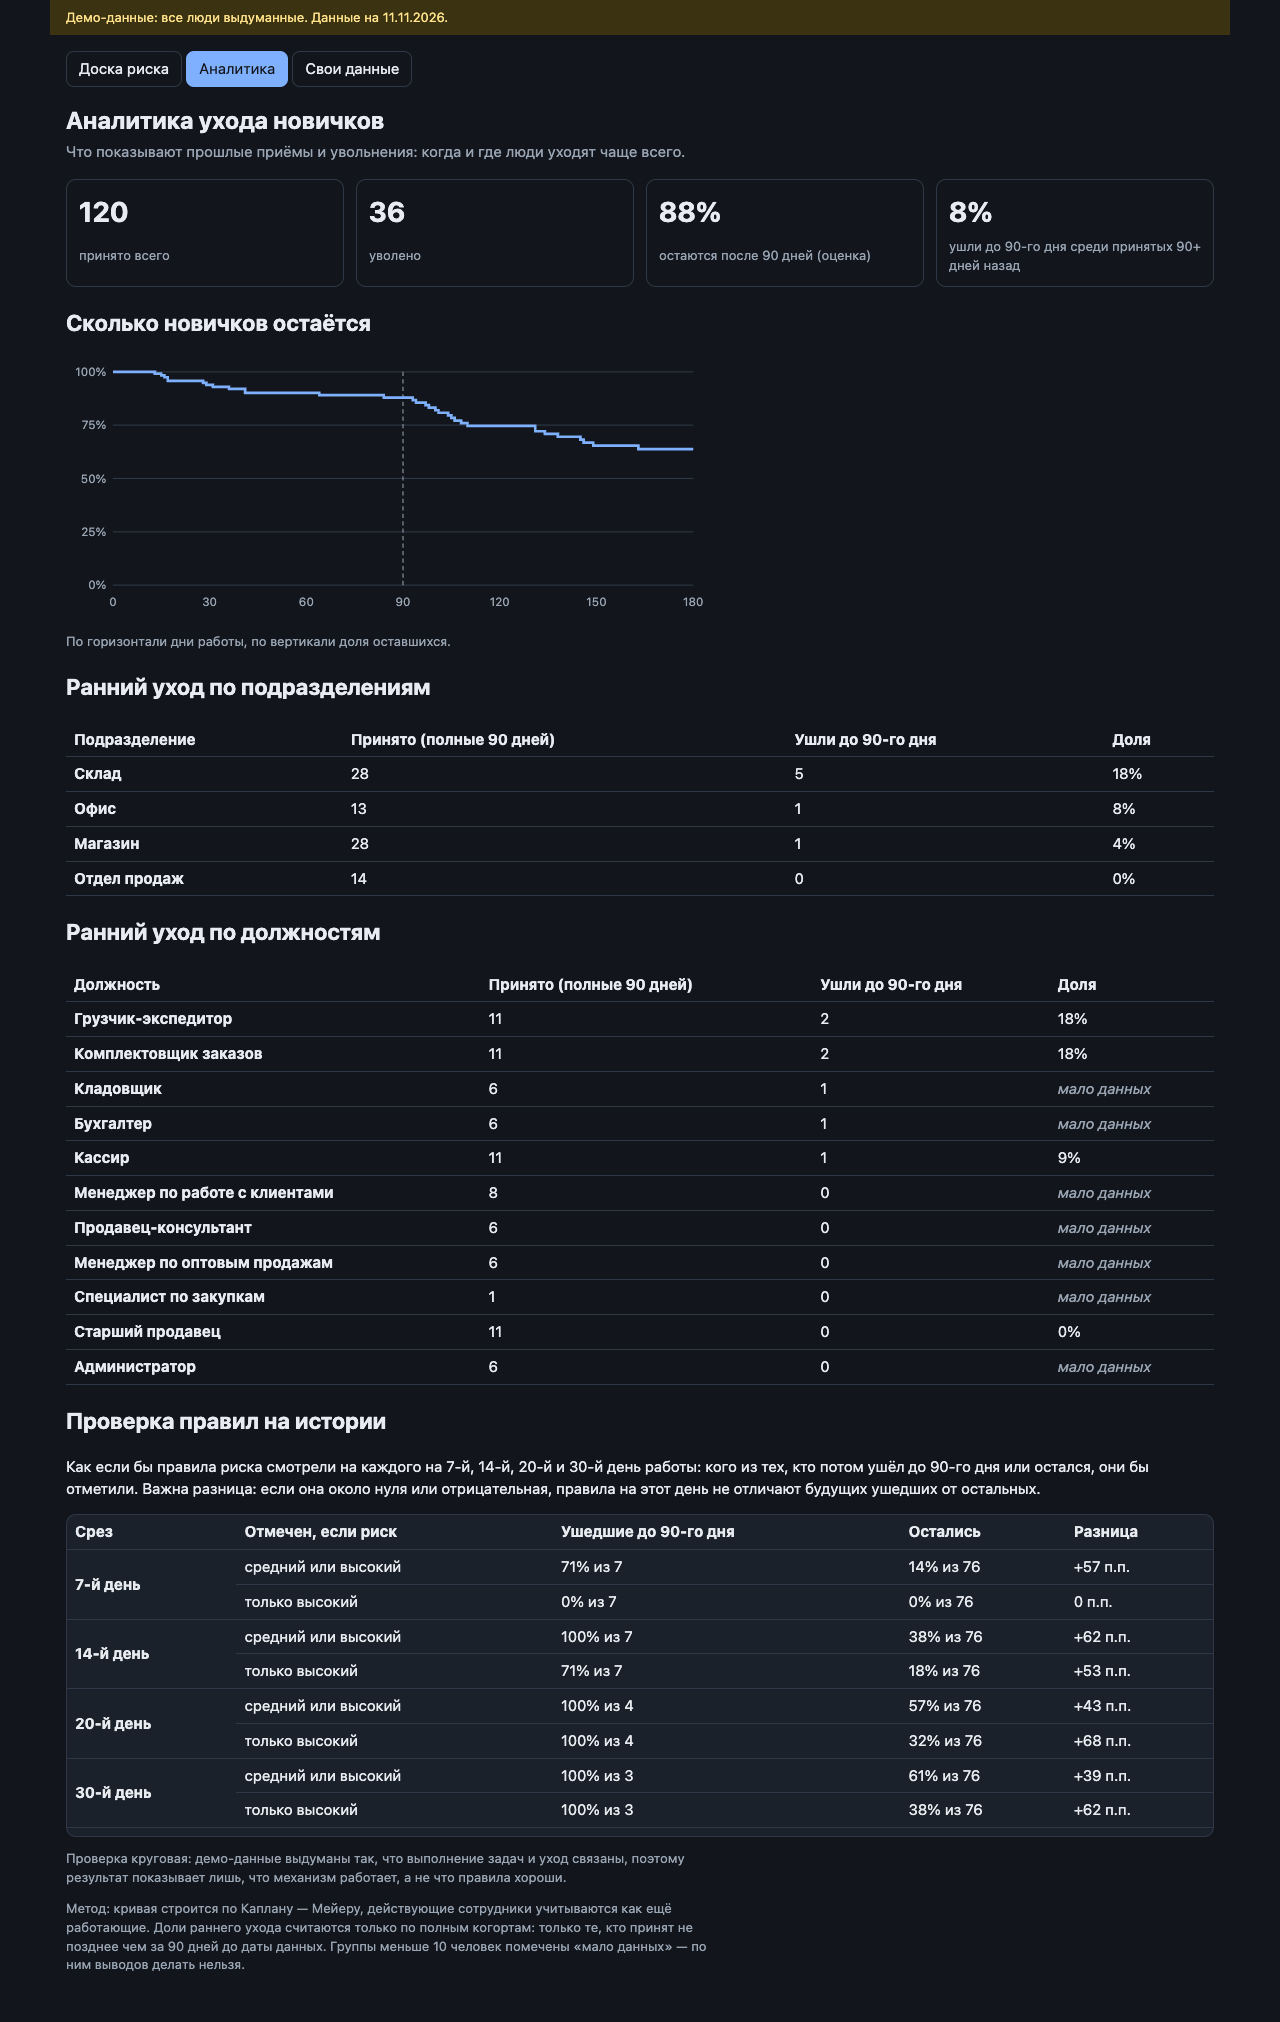
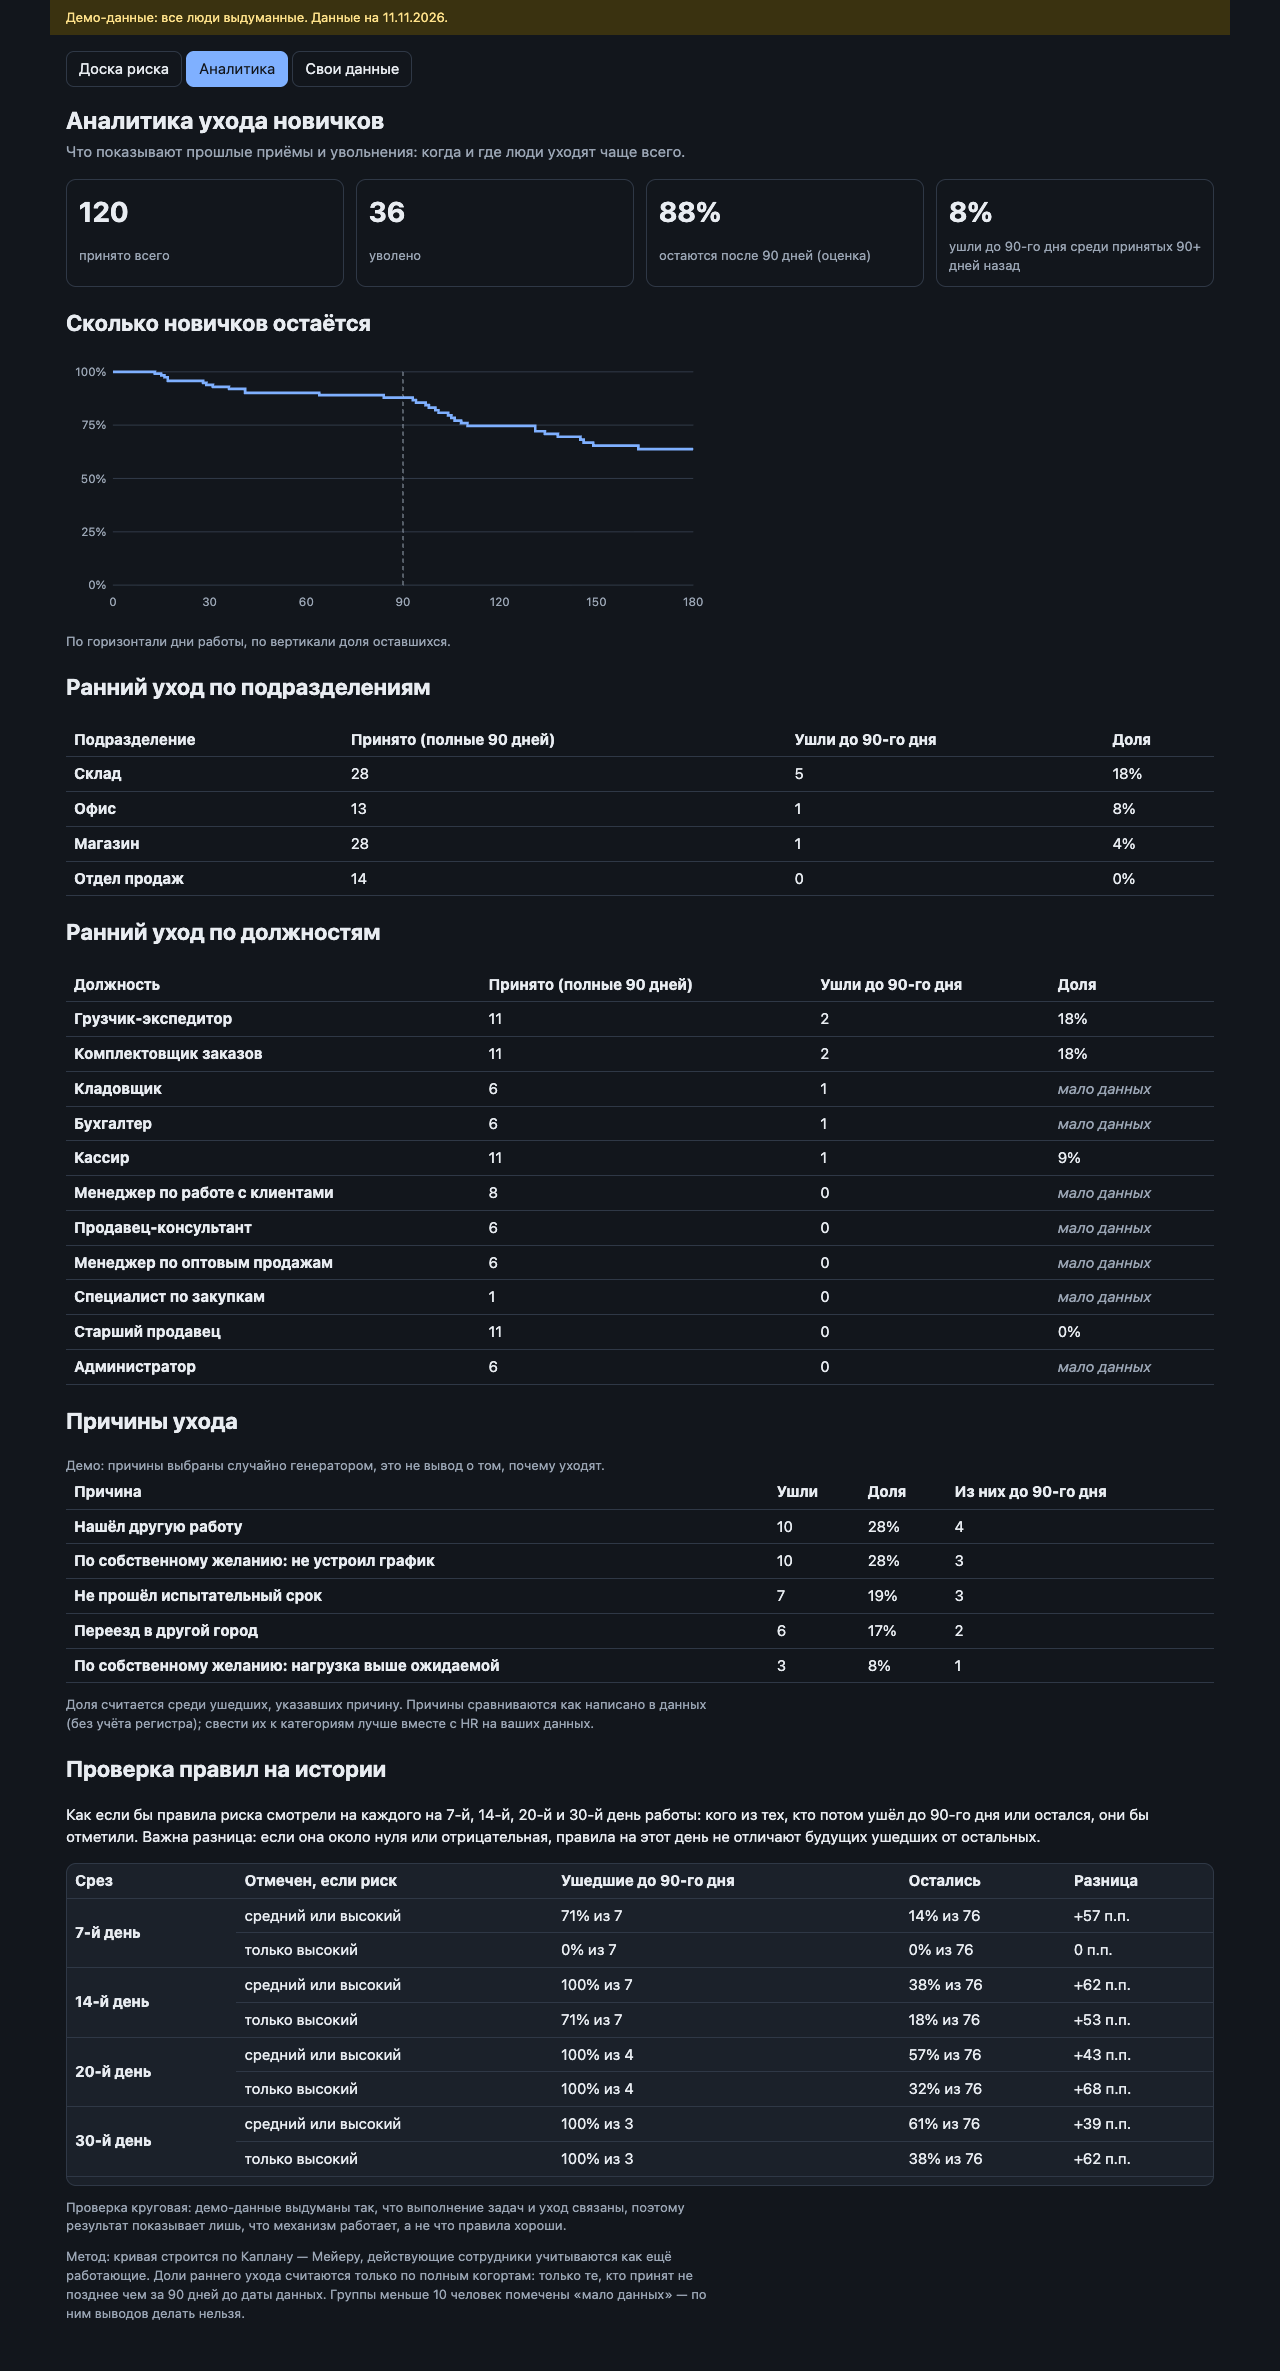
docs: refresh README screenshots (reasons explained, leave reasons, import)

diff --git a/README.md b/README.md
@@ -10,9 +10,11 @@ The report for the test task is in [REPORT.md](REPORT.md) (Russian and English).
 
 ![Board](docs/screenshots/board.png)
 
-| Card | Analytics | Phone |
-| --- | --- | --- |
-| ![Card](docs/screenshots/card.png) | ![Analytics](docs/screenshots/analytics.png) | ![Card on a phone](docs/screenshots/mobile-card.png) |
+| Card (reasons explained) | Analytics (incl. leave reasons) |
+| --- | --- |
+| ![Card](docs/screenshots/card.png) | ![Analytics](docs/screenshots/analytics.png) |
+| **Your own data (import)** | **Card on a phone** |
+| ![Import](docs/screenshots/import.png) | ![Card on a phone](docs/screenshots/mobile-card.png) |
 
 ## Assumption (please read)
 
